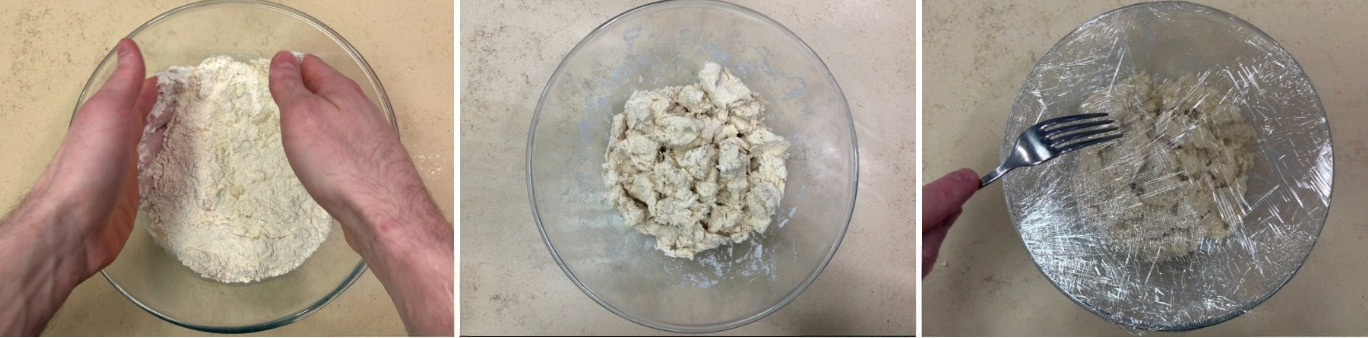
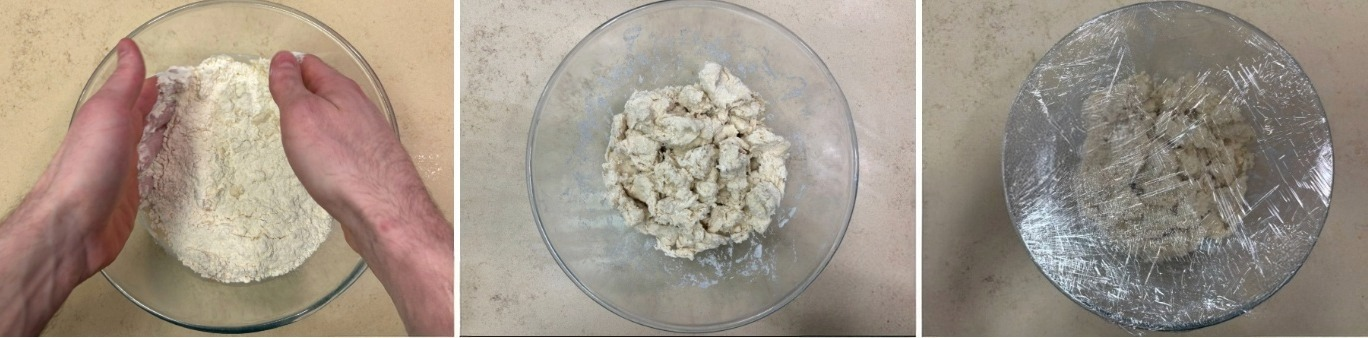
Hook stuffcrust filter and builder steps (#14)
* Hook steps and stuffed crust pizzas

Changed region(s): [[0.6754, 0.2959, 0.8289, 0.7988]]

diff --git a/src/views/BuilderBrowser.vue b/src/views/BuilderBrowser.vue
@@ -22,21 +22,36 @@ const selectedPresetData = ref<DoughIngredients | null>(null)
 const templateToDisplay = ref<BuilderTemplateData | null>(null)
 const selectedPreset = ref<'Direct' | 'Biga' | 'Express' | null>(null)
 
-watch(currentLanguage, (newLang) => {
-    templateToDisplay.value = getBuilderTemplate(newLang);
-}, { immediate: true })
-
-const handleBuilderChanged = async (builderData: {
+const lastBuilderData = ref<{
     preset: 'Direct' | 'Biga' | 'Express';
     doughBallCount: number;
     doughBallWeight: number;
     hydration: number;
     temperature: number;
     preferment: number | null;
-}) => {
-    selectedPreset.value = builderData.preset;
+} | null>(null);
 
-    console.log(builderData, 'Received builder data');
+const lastFetchKey = ref<string | null>(null);
+
+watch(currentLanguage, async (newLang) => {
+    templateToDisplay.value = getBuilderTemplate(newLang);
+    if (lastBuilderData.value) {
+        await fetchPreset(lastBuilderData.value);
+    }
+}, { immediate: true })
+
+const fetchPreset = async (builderData: typeof lastBuilderData.value) => {
+    if (!builderData) return;
+
+    const key = JSON.stringify({
+        ...builderData,
+        lang: currentLanguage.value
+    });
+
+    if (key === lastFetchKey.value) return;
+
+    lastFetchKey.value = key;
+
     const presetToDisplay = await GetPresetDataAsync(
         builderData.preset,
         currentLanguage.value,
@@ -48,6 +63,21 @@ const handleBuilderChanged = async (builderData: {
     );
 
     selectedPresetData.value = presetToDisplay;
+};
+
+const handleBuilderChanged = async (builderData: {
+    preset: 'Direct' | 'Biga' | 'Express';
+    doughBallCount: number;
+    doughBallWeight: number;
+    hydration: number;
+    temperature: number;
+    preferment: number | null;
+}) => {
+    lastBuilderData.value = builderData;
+    selectedPreset.value = builderData.preset;
+
+    console.log(builderData, 'Received builder data');
+    await fetchPreset(builderData);
 };
 
 if (!sessionStorage.getItem('apiWarmed')) {

diff --git a/src/components/PizzaFilters.vue b/src/components/PizzaFilters.vue
@@ -29,6 +29,8 @@
               t.allPizzas }}</button></li>
             <li><button class="dropdown-item" @click="selectFilter('Vegetarian Pizzas')"><span
                   class="item-icon">🥦</span> {{ t.vegPizzas }}</button></li>
+            <li><button class="dropdown-item" @click="selectFilter('Stuffed Crust Pizzas')"><span
+                  class="item-icon">🧁</span> {{ t.stuffedCrustPizzas }}</button></li>
           </ul>
         </div>
 
@@ -54,16 +56,18 @@ const translations = {
   en: {
     favourites: 'Favourites',
     allPizzas: 'All Pizzas',
-    vegPizzas: 'Veg Pizzas',
+    vegPizzas: 'Vegetarians',
     reset: '↻ Reset',
-    yourFavourites: '❤ Your Favourites'
+    yourFavourites: '❤ Your Favourites',
+    stuffedCrustPizzas: 'Stuffed Crusts'
   },
   it: {
     favourites: 'Preferiti',
     allPizzas: 'Tutte le Pizze',
-    vegPizzas: 'Pizze Veg',
+    vegPizzas: 'Vegetariane',
     reset: '↻ Ripristina',
-    yourFavourites: '❤ I tuoi preferiti'
+    yourFavourites: '❤ I tuoi preferiti',
+    stuffedCrustPizzas: 'Bordo Ripieno'
   }
 }
 
@@ -73,6 +77,7 @@ const displayFilter = computed(() => {
   if (selectedFilter.value === 'All pizzas') return t.value.allPizzas
   if (selectedFilter.value === 'Vegetarian Pizzas') return t.value.vegPizzas
   if (selectedFilter.value === 'Favourites') return t.value.favourites
+  if (selectedFilter.value === 'Stuffed Crust Pizzas') return t.value.stuffedCrustPizzas
   return selectedFilter.value
 })
 
@@ -349,7 +354,7 @@ function resetFilter() {
 
 @media (max-width: 576px) {
   .filter-bar {
-    padding: 1rem 0;
+    top: 60px;
   }
 
   .filter-content {

diff --git a/src/api/BuilderApi.ts b/src/api/BuilderApi.ts
@@ -3,30 +3,6 @@ import type { DoughIngredients } from "../models/Builder";
 export async function GetPresetDataAsync(preset: string, lang: string, doughBallCount: number, doughBallWeight: number, hydration: number, temperature: number, preferment: number | null): Promise<DoughIngredients> {
 
     try {
-        // // MOCK DATA
-        const doughIngredients: DoughIngredients = {
-            water: 300,
-            flour: 500,
-            salt: 10,
-            yeast: 5,
-            steps: lang === 'it' ? [
-                "Mescolare acqua e lievito",
-                "Aggiungere la farina e il sale",
-                "Impastare fino ad ottenere un impasto liscio ed elastico",
-                "Impastare fino ad ottenere un impasto liscio ed elastico",
-                "Impastare fino ad ottenere un impasto liscio ed elastico"
-
-            ] : [
-                "Mix water and yeast",
-                "Add flour and salt",
-                "Knead until you get a smooth and elastic dough",
-                "Knead until you get a smooth and elastic dough",
-                "Knead until you get a smooth and elastic dough"
-
-            ]
-        };
-
-        return doughIngredients;
         const params = new URLSearchParams({
             preset: preset,
             lang: lang,

diff --git a/src/components/PizzaCards.vue b/src/components/PizzaCards.vue
@@ -136,6 +136,9 @@ function getPizzaImage(imageName: string | undefined): string {
   padding: 1.25rem 1rem;
   text-align: center;
   cursor: default;
+  display: flex;
+  flex-direction: column;
+  height: 100%;
 }
 
 .pizza-card::before {
@@ -182,6 +185,9 @@ function getPizzaImage(imageName: string | undefined): string {
 .pizza-content {
   position: relative;
   z-index: 1;
+  flex: 1;
+  display: flex;
+  flex-direction: column;
 }
 
 .pizza-header {
@@ -206,12 +212,11 @@ function getPizzaImage(imageName: string | undefined): string {
 
 .pizza-image {
   width: 100%;
-  height: auto;
-  max-height: 220px;
+  height: 250px;
   object-fit: cover;
   border-radius: 0.75rem;
   margin-bottom: 0.75rem;
-  border: 1px solid rgba(255, 255, 255, 0.1);
+  border: 2px solid rgba(255, 255, 255, 0.1);
 }
 
 .vegetarian-badge {
@@ -269,7 +274,7 @@ function getPizzaImage(imageName: string | undefined): string {
 }
 
 .pizza-note {
-  margin-top: 0.5rem;
+  margin-top: auto;
   font-size: 0.8rem;
   color: rgba(255, 255, 255, 0.6);
   font-style: italic;

diff --git a/src/i18n/builderTemplates.ts b/src/i18n/builderTemplates.ts
@@ -10,7 +10,7 @@ export function getBuilderTemplate(lang: string): BuilderTemplateData {
             salt: "Sale",
             saltDay2: "Sale (Giorno 2)",
             yeast: "Lievito secco",
-            stepsTitle: "Preparazione",
+            stepsTitle: "Preparazione Impasto",
             preset1: "Diretto",
             preset2: "Biga",
             preset3: "Espressa",
@@ -35,7 +35,7 @@ export function getBuilderTemplate(lang: string): BuilderTemplateData {
             salt: "Salt",
             saltDay2: "Salt (Day 2)",
             yeast: "Dry Yeast",
-            stepsTitle: "Steps",
+            stepsTitle: "Dough Prep",
             preset1: "Direct",
             preset2: "Biga",
             preset3: "Express",
